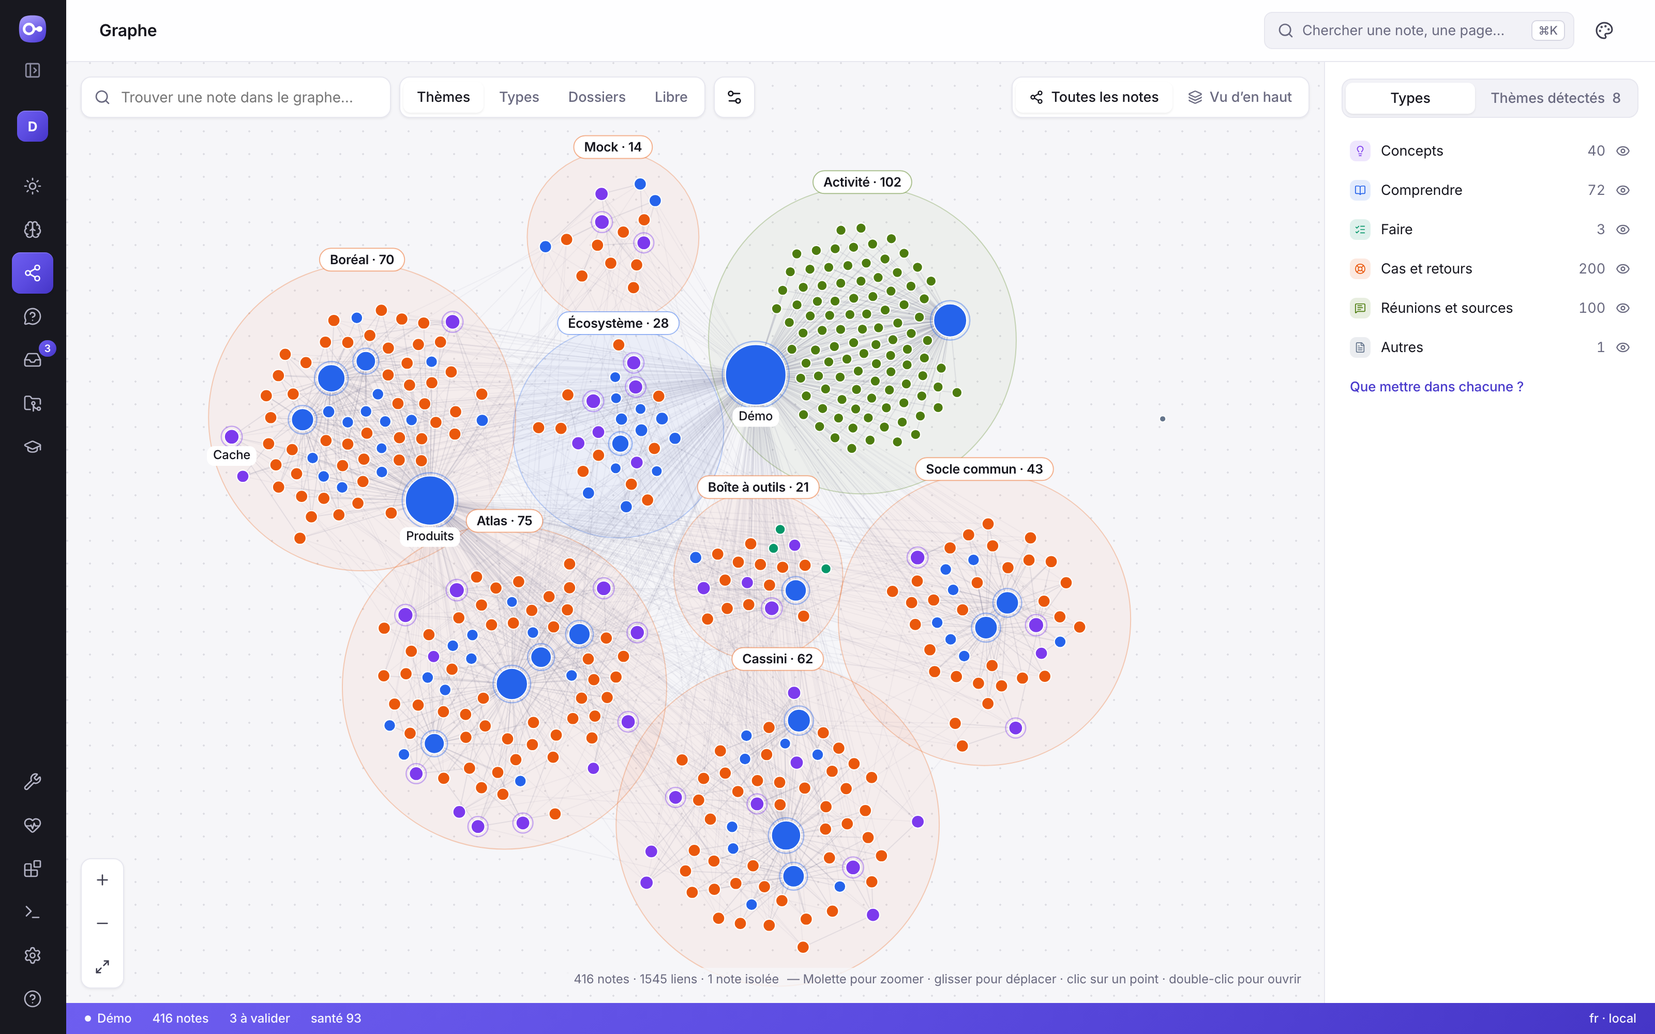
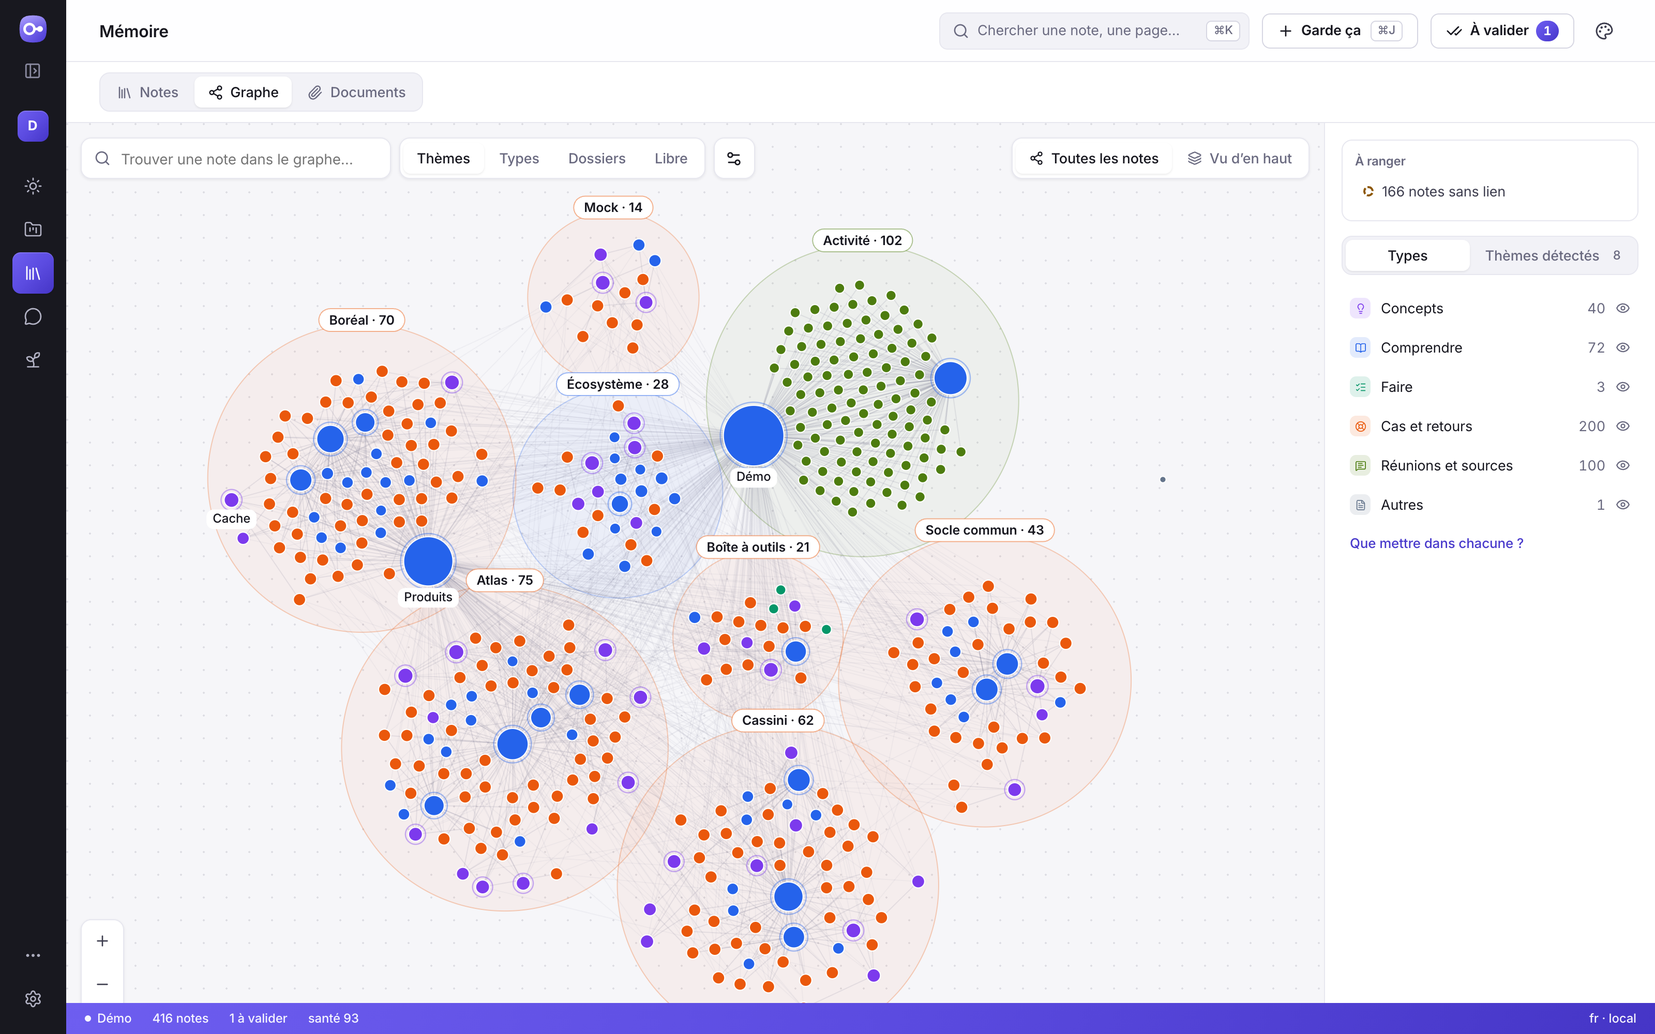
2.0.0: the version number, the guides' screenshots, and a slow Git no longer taken for « not a Git repository »
- Version 2.0.0 in the package, the two plugins and the README; the release notes open on what the 2.0 is, how to come from the 1.5, what is not in it, and its gate (a month of daily use, « mardi » in ten seconds, under three minutes of upkeep a day).
- The guides' screenshots are retaken on the 2.0 (scripts/screenshots.mjs, from a running app on a fictitious brain), with four new ones: a project, the documents, « À valider », the four indicators.
- Simple words: the settings labels no longer say « KB »; the words test now covers every label of the settings page.
- gitRoot waits a second time, longer, when Git is slow to answer, and says `gitSlow` instead of « not a Git repository » where that would mislead (it failed the suite twice under load).
- Quality is shown as a score out of 100, the other indicators as a share.

diff --git a/src/i18n/fr.ts b/src/i18n/fr.ts
@@ -402,7 +402,7 @@ export const FR: Record<keyof typeof EN, string> = {
   'settings.groupHint.advanced': 'pour experts',
   'settings.label.ui.language': 'Langue d’OKB (menus et messages)',
   'settings.label.writing.language': 'Langue de rédaction des notes',
-  'settings.label.profile.displayName': 'Nom de la KB',
+  'settings.label.profile.displayName': 'Nom de ce cerveau',
   'settings.label.writing.preset': 'Style d’écriture',
   'settings.label.reader.level': 'Ton niveau',
   'settings.label.kb.requireTemplate': 'Chaque note suit un modèle',
@@ -444,7 +444,7 @@ export const FR: Record<keyof typeof EN, string> = {
   'settings.hint.agents.model.haiku': 'le moins cher, pour les sources simples',
   'settings.hint.agents.model.opus': 'le plus fort',
   'settings.explain.agents.model': 'Les sous-agents qui lisent les longues sources et le code d’un repo, et rapportent des faits cités. La rédaction des notes et le relecteur des preuves gardent toujours le modèle de ta session. Réglage propre à cet ordinateur : au travail, laisse « Comme la session » si ton accès ne propose pas tous les modèles.',
-  'settings.explain.routing.otherKnowledgeTools': 'Les noms d’autres bases de connaissances ou d’agents (la KB d’un agent support, un wiki). OKB n’y touche jamais, et demande laquelle tu veux dire quand un message pourrait les concerner.',
+  'settings.explain.routing.otherKnowledgeTools': 'Les noms d’autres bases de connaissances ou d’agents (la base d’un agent support, un wiki). OKB n’y touche jamais, et demande laquelle tu veux dire quand un message pourrait les concerner.',
   'settings.explain.focus.sessionStart': 'Au début de chaque session Claude, ta note de focus et la dernière « prochaine fois » sont données à Claude.',
 
   // ---------- kb ----------
@@ -1341,8 +1341,8 @@ export const FR: Record<keyof typeof EN, string> = {
   "repo.next.integrate": "Dans Claude : /okb-dev:onboard intègre les réponses dans les notes",
   "repo.next.refresh": "Dans Claude : /okb-dev:onboard refresh (met à jour les notes dépassées)",
   "repo.next.ticket": "Dans Claude : /okb-dev:ticket (enrichit la KB du repo avec ce travail)",
-  "settings.label.kb.confidential": "KB confidentielle (reste sur cet ordinateur)",
-  "settings.explain.kb.confidential": "Pour le code d’entreprise et le travail client : pas de lecture web, pas de dépôt GitHub créé par OKB, et okb doctor prévient si le dossier est synchronisé par un cloud ou si la KB a un remote.",
+  "settings.label.kb.confidential": "Cerveau confidentiel (reste sur cet ordinateur)",
+  "settings.explain.kb.confidential": "Pour le code d’entreprise et le travail client : pas de lecture web, pas de dépôt GitHub créé par OKB, et okb doctor prévient si le dossier est synchronisé par un cloud ou si ses notes ont un dépôt distant.",
   "doctor.check.kb-private": "Confidentialité",
   "doctor.private.ok": "en local seulement : pas de dossier cloud, pas de remote Git",
   "doctor.private.synced": "le dossier est synchronisé par {where}",

diff --git a/tests/git-slow.test.ts b/tests/git-slow.test.ts
@@ -1,0 +1,48 @@
+import { execFileSync } from 'node:child_process';
+import { chmod, mkdir, mkdtemp, realpath, rm, writeFile } from 'node:fs/promises';
+import { tmpdir } from 'node:os';
+import { resolve } from 'node:path';
+import { afterEach, describe, expect, it } from 'vitest';
+import { TEST_ROOT } from './helpers/sandbox.js';
+
+const made: string[] = [];
+afterEach(async () => { for (const d of made.splice(0)) await rm(d, { recursive: true, force: true }); });
+
+/** Ask `gitRoot` from a process whose `git` answers after `sleep` seconds. */
+async function rootWithSlowGit(sleep: number, options: string): Promise<string> {
+  const dir = await realpath(await mkdtemp(resolve(tmpdir(), 'okb-slowgit-')));
+  made.push(dir);
+  const real = execFileSync('which', ['git'], { encoding: 'utf8' }).trim();
+  const repo = resolve(dir, 'repo');
+  await mkdir(repo, { recursive: true });
+  execFileSync(real, ['init', '-q', repo]);
+  await mkdir(resolve(dir, 'bin'));
+  await writeFile(resolve(dir, 'bin', 'git'), `#!/bin/sh\nsleep ${sleep}\nexec ${real} "$@"\n`);
+  await chmod(resolve(dir, 'bin', 'git'), 0o755);
+  const script = `
+    const { gitRoot } = await import(${JSON.stringify(resolve(TEST_ROOT, '..', 'dist', 'repo', 'git.js'))});
+    try { console.log(JSON.stringify({ root: await gitRoot(${JSON.stringify(repo)}, ${options}) })); }
+    catch (e) { console.log(JSON.stringify({ key: e.key ?? null, message: e.message })); }`;
+  const out = execFileSync(process.execPath, ['--input-type=module', '-e', script], { env: { ...process.env, PATH: `${resolve(dir, 'bin')}:${process.env.PATH}` }, encoding: 'utf8' });
+  return out.trim().replace(repo, '<repo>');
+}
+
+describe('a slow Git is not « not a Git repository »', () => {
+  it('waits a second time, longer, before concluding anything', async () => {
+    // Git takes 1.5 s; the first wait is 0.4 s, the second 10 s.
+    expect(await rootWithSlowGit(1.5, '{ timeout: 400, patience: 10000 }')).toBe('{"root":"<repo>"}');
+  });
+
+  it('when Git still does not answer, says so instead of saying the folder is not a repository', async () => {
+    expect(JSON.parse(await rootWithSlowGit(3, '{ timeout: 300, patience: 600, strict: true }'))).toMatchObject({ key: 'gitSlow' });
+    // Where the answer is only a hint (a tip on the home screen), no repository is assumed, without an error.
+    expect(await rootWithSlowGit(3, '{ timeout: 300, patience: 600 }')).toBe('{"root":null}');
+  });
+
+  it('a folder outside Git is still told at once', async () => {
+    const dir = await realpath(await mkdtemp(resolve(tmpdir(), 'okb-nogit-')));
+    made.push(dir);
+    const { gitRoot } = await import('../src/repo/git.js');
+    expect(await gitRoot(dir, { strict: true })).toBeNull();
+  });
+});

diff --git a/src/i18n/en.ts b/src/i18n/en.ts
@@ -401,7 +401,7 @@ export const EN = {
   'settings.groupHint.advanced': 'for experts',
   'settings.label.ui.language': 'OKB language (menus and messages)',
   'settings.label.writing.language': 'Language the notes are written in',
-  'settings.label.profile.displayName': 'KB name',
+  'settings.label.profile.displayName': 'Name of this brain',
   'settings.label.writing.preset': 'Writing style',
   'settings.label.reader.level': 'Your level',
   'settings.label.kb.requireTemplate': 'Every note follows a template',
@@ -443,7 +443,7 @@ export const EN = {
   'settings.hint.agents.model.haiku': 'the cheapest, for simple sources',
   'settings.hint.agents.model.opus': 'the strongest',
   'settings.explain.agents.model': 'The subagents that read long sources and a repository’s code, and report cited facts. Writing the notes and the evidence reviewer always keep your session’s model. Set per computer: at work, keep “Same as the session” if your access does not offer every model.',
-  'settings.explain.routing.otherKnowledgeTools': 'Names of other knowledge bases or agents (a support agent’s KB, a wiki). OKB never touches them, and asks which one you mean when a message could concern them.',
+  'settings.explain.routing.otherKnowledgeTools': 'Names of other knowledge bases or agents (a support agent’s base, a wiki). OKB never touches them, and asks which one you mean when a message could concern them.',
   'settings.explain.focus.sessionStart': 'At the start of each Claude session, your focus note and the last “next time” are given to Claude.',
 
   // ---------- kb ----------
@@ -1340,8 +1340,8 @@ export const EN = {
   "repo.next.integrate": "In Claude: /okb-dev:onboard integrates the answers into the notes",
   "repo.next.refresh": "In Claude: /okb-dev:onboard refresh (updates the outdated notes)",
   "repo.next.ticket": "In Claude: /okb-dev:ticket (enriches the repository's KB from this work)",
-  "settings.label.kb.confidential": "Confidential KB (stays on this computer)",
-  "settings.explain.kb.confidential": "For company code and client work: no web reading, no GitHub repository from OKB, and okb doctor warns if the folder is synchronised by a cloud or the KB has a remote.",
+  "settings.label.kb.confidential": "Confidential brain (stays on this computer)",
+  "settings.explain.kb.confidential": "For company code and client work: no web reading, no GitHub repository from OKB, and okb doctor warns if the folder is synchronised by a cloud or its notes have a remote.",
   "doctor.check.kb-private": "Confidentiality",
   "doctor.private.ok": "local only: no cloud folder, no Git remote",
   "doctor.private.synced": "the folder is synchronised by {where}",

diff --git a/src/repo/git.ts b/src/repo/git.ts
@@ -1,6 +1,7 @@
 import { execFile } from 'node:child_process';
 import { resolve } from 'node:path';
 import { promisify } from 'node:util';
+import { OkbError } from '../util/errors.js';
 
 /**
  * Read-only Git access for code repositories OKB documents. Nothing here
@@ -21,10 +22,25 @@ async function attempt(root: string, args: readonly string[], options: { maxBuff
   try { return await git(root, args, options); } catch { return null; }
 }
 
-/** The top of the working tree containing `dir`, or null outside Git. */
-export async function gitRoot(dir: string): Promise<string | null> {
-  const out = await attempt(dir, ['rev-parse', '--show-toplevel'], { timeout: 5000 });
-  return out ? resolve(out.trim()) : null;
+const timedOut = (error: unknown) => (error as { killed?: boolean }).killed === true || (error as { code?: string }).code === 'ETIMEDOUT';
+
+/**
+ * The top of the working tree containing `dir`, or null outside Git. A Git that
+ * is slow to answer (a busy machine, a cold disk) is not « outside Git »: OKB
+ * waits a second time, longer. If Git still does not answer, `strict` says so
+ * (`gitSlow`) where a wrong « not a repository » would mislead; elsewhere the
+ * answer is only a hint, and no repository is assumed.
+ */
+export async function gitRoot(dir: string, options: { strict?: boolean; timeout?: number; patience?: number } = {}): Promise<string | null> {
+  for (const timeout of [options.timeout ?? 5000, options.patience ?? 20_000]) {
+    try {
+      return resolve((await git(dir, ['rev-parse', '--show-toplevel'], { timeout })).trim());
+    } catch (error) {
+      if (!timedOut(error)) return null;
+    }
+  }
+  if (options.strict) throw new OkbError('E_IO', `Git did not answer in time for ${dir}`, { key: 'gitSlow', params: { path: dir } });
+  return null;
 }
 
 /** Remote URL without credentials, query or fragment: `https://user:token@host/x.git` → `https://host/x.git`. */

diff --git a/tests/web-app/words.test.ts b/tests/web-app/words.test.ts
@@ -26,7 +26,9 @@ describe('simple words on screen (F2.0-02)', () => {
   it('no message of the app says « KB », « bundle » or « proposition »: these words stay in the code', () => {
     const fr = { ...FR, ...FR_V1 } as Record<string, string>;
     const en = { ...EN, ...EN_V1 } as Record<string, string>;
-    const keys = appKeys().flatMap((k) => [k, `${k}.one`, `${k}.other`]);
+    // The settings page builds its labels from each setting's key: every one of them is on screen too.
+    const settings = Object.keys(fr).filter((k) => /^settings\.(label|explain|opt|hint)\./.test(k));
+    const keys = [...appKeys().flatMap((k) => [k, `${k}.one`, `${k}.other`]), ...settings];
     expect(keys.length).toBeGreaterThan(500);
     const internal = { fr: /\bKB\b|\b[Bb]undles?\b|\b[Pp]ropositions?\b/, en: /\bKB\b|\b[Bb]undles?\b|\b[Pp]roposals?\b/ };
     // A parameter ({kb}) and a command to type (okb kb convert) are not words of the interface.

diff --git a/src/cli/commands/init.ts b/src/cli/commands/init.ts
@@ -303,7 +303,7 @@ async function createForCode(ctx: Ctx, kind: 'repo' | 'workspace', input: { name
   void _kbName;
   if (kind === 'repo') {
     const { gitRoot } = await import('../../repo/git.js');
-    const root = await gitRoot(folder);
+    const root = await gitRoot(folder, { strict: true });
     if (!root) throw new OkbError('E_NOT_FOUND', `not a Git repository: ${folder}`, { key: 'repoNotGit', params: { path: folder } });
     const id = await createCodeKb(ctx, { name: input.name, dir: input.dir, kind: 'repo', repoRoot: root, inRepo: input.inRepo });
     const code = await cmdRepo({ ...ctx, args: { ...ctx.args, positionals: ['add', root], flags: { ...flags, kb: id } } });

diff --git a/src/i18n/v1.fr.ts b/src/i18n/v1.fr.ts
@@ -1613,4 +1613,7 @@ export const FR_V1: Record<keyof typeof EN_V1, string> = {
   'metrics.upkeep': 'Entretien',
   'metrics.tokens': 'Coût',
   'app.upkeep.healthTitle': 'Santé des notes',
+  'err.gitSlow.title': 'Git ne répond pas',
+  'err.gitSlow.why': 'Git n’a pas répondu à temps pour {path}. Ce n’est pas forcément que le dossier n’est pas un dépôt.',
+  'err.gitSlow.fix': 'Réessaie dans un instant, ou vérifie avec : git -C "{path}" status.',
 };

diff --git a/src/i18n/v1.en.ts b/src/i18n/v1.en.ts
@@ -1619,4 +1619,7 @@ export const EN_V1 = {
   'metrics.upkeep': 'Upkeep',
   'metrics.tokens': 'Cost',
   'app.upkeep.healthTitle': 'Health of the notes',
+  'err.gitSlow.title': 'Git does not answer',
+  'err.gitSlow.why': 'Git did not answer in time for {path}. It does not mean the folder is not a repository.',
+  'err.gitSlow.fix': 'Try again in a moment, or check with: git -C "{path}" status.',
 } as const;

diff --git a/docs/releases/RELEASE-2.0.0.md b/docs/releases/RELEASE-2.0.0.md
@@ -1,12 +1,56 @@
-# Version 2.0.0 — en préparation
+# Version 2.0.0
 
 > **« Je lui confie mon travail. »** La 2.0 pose le socle : un deuxième cerveau
-> fiable, simple, qui garde le fil du travail. Le détail est dans
-> `docs/dev/specs/2026-10-10-2.0-socle.md`.
+> fiable, simple, qui garde le fil du travail.
+> ✨ **Rien de ce qu'une IA rédige n'entre dans tes notes sans ton oui** — toujours.
 
-Ces notes grandissent à chaque itération.
+## En bref
 
-## Itération 1 — la confiance d'abord
+- **Cinq écrans** au lieu de treize destinations, et des mots simples.
+- **Garder le fil** : projets, actions, ce que tu attends, journal, « Où j'en
+  étais », « ce que j'ai fait mardi ».
+- **Capturer** : les documents gardés tels quels ; Claude ne t'interrompt plus.
+- **Deux espaces étanches** : Mon bagage et Travail.
+- **Un oui proportionné** : « oui à tout, sauf… » en une confirmation.
+- **Un seul moteur** pour l'application, le terminal et les assistants (MCP).
+- **Durer** : une sauvegarde qui ramène tout, une restauration réellement essayée.
+
+## Passer de la 1.5
+
+Tes notes ne sont jamais touchées. `okb migrate 2.0` montre ce qui va se
+passer, `--apply` le fait après une sauvegarde, `--rollback` revient en arrière.
+Il faut Node 22.13 ou plus récent.
+Voir [passer de la 1.5 à la 2.0](../guide/passer-a-la-2-0.md).
+
+Ce qui change sans que tu le demandes :
+
+- le réglage « Quand Claude propose de garder quelque chose » passe à « à la fin
+  de la session » (`okb settings set suggest.mode live` pour l'ancien réglage) ;
+- « À valider » s'ouvre sur tout ce qui attend ;
+- chaque cerveau est rangé dans l'espace Travail, sauf un cerveau « carrière »
+  qui va dans Mon bagage ;
+- l'ancienne interface (`/classic`) est retirée.
+
+## Ce qui n'est pas dans la 2.0
+
+- Le partage à plusieurs (2.1), les lectures « plus simple, plus technique »
+  (2.2), l'assistant dans l'application (2.3), le quotidien du développeur (2.4),
+  l'application installable (3.0).
+- Les tickets du module développeur restent dans leurs fichiers.
+
+## La porte de la 2.0
+
+La 2.0 est construite ; sa porte reste à passer, et elle ne se passe qu'à l'usage :
+
+- s'en servir chaque jour de travail pendant un mois, sans rien perdre ;
+- retrouver « ce que j'ai fait mardi » en dix secondes ;
+- moins de trois minutes d'entretien par jour.
+
+`okb metrics` mesure les deux derniers points sur ton propre cerveau.
+
+Le détail suit, thème par thème.
+
+## La confiance d'abord
 
 - **Une seule porte vers l'IA.** Traduire, « Demander » et l'examen d'un repo passent
   par le même contrôle :
@@ -33,7 +77,7 @@ Ces notes grandissent à chaque itération.
 
 Décision : D56. Vérification : `npm run release:check` (676 tests).
 
-## Itération 2 — la vitesse sur un gros cerveau
+## La vitesse sur un gros cerveau
 
 OKB ne relit plus toutes tes notes à chaque clic : il garde ce qu'il a lu et ne
 relit que les notes qui ont changé. Sur un cerveau fictif de 4 715 notes :
@@ -53,7 +97,7 @@ Pour mesurer toi-même : `npm run bench:speed` (sans IA, sans token).
 
 Décision : D57.
 
-## Itération 3 — un seul moteur
+## Un seul moteur
 
 - **Les mêmes réponses partout.** Une recherche donne les mêmes notes, dans le même
   ordre, que tu la fasses dans l'application ou le terminal. La recherche du
@@ -67,7 +111,7 @@ Décision : D57.
 - **Une demande mal formée** est refusée avec le nom du champ en cause.
 
 Décision : D58.
-## Itération 4 — le grand ménage
+## Le grand ménage
 
 L'application garde son apparence (le thème Atelier), mais elle est rangée autrement.
 
@@ -91,7 +135,7 @@ L'application garde son apparence (le thème Atelier), mais elle est rangée aut
 
 Décision : D59.
 
-## Itération 5 — garder le fil
+## Garder le fil
 
 - **Les projets.** Un projet, c'est ce sur quoi tu travailles. Il dit où il en est en
   une phrase et sa prochaine étape. Tu en crées un pour un sujet ; avec le module
@@ -115,7 +159,7 @@ Décision : D59.
 (`okb.db`), dans le dossier d'état de ton profil, pas dans tes notes.
 Voir [projets, actions et journal](../guide/projets.md).
 
-## Itération 6 — capturer et écrire
+## Capturer et écrire
 
 - **Les documents.** Un PDF, une présentation, un mail, une photo : OKB garde le
   fichier tel quel, sans jamais le modifier, et lit son texte pour que la
@@ -140,7 +184,7 @@ la fin de la session » par défaut. Pour retrouver la proposition immédiate :
 Voir [les documents](../guide/documents.md) et
 [rien n'est écrit sans ton oui](../guide/demander-avant-ecrire.md).
 
-## Itération 7 — les espaces et le oui
+## Les espaces et le oui
 
 - **Deux espaces qui ne se mélangent jamais.** **Mon bagage** : ce qui t'appartient
   et te suit toute ta vie. **Travail** : les notes d'un employeur ou d'un client.
@@ -160,7 +204,7 @@ Voir [les documents](../guide/documents.md) et
 qui va dans Mon bagage. Pour changer : Réglages › Espace de ce cerveau.
 Voir [deux espaces](../guide/espaces.md).
 
-## Itération 8 — durer
+## Durer
 
 - **Une sauvegarde qui ramène tout.** Chaque jour : tes notes, tes documents, tes
   projets, tes actions, ton journal, tes révisions et tes réglages. Aujourd'hui

diff --git a/README.md b/README.md
@@ -1,4 +1,4 @@
-# OKB — Open Knowledge Brain · 1.5.0
+# OKB — Open Knowledge Brain · 2.0.0
 
 **A local second brain for Claude Code and Obsidian, where nothing enters your
 notes without your approval.**
@@ -12,6 +12,39 @@ of plain Markdown files on your computer, that you open in Obsidian or in the we
 **En français :** [démarrer](DEMARRER.md) · [guide d’utilisation](docs/guide/README.md).
 
 ![The OKB web app: home](docs/images/web-home.png)
+
+## Version 2.0: a second brain you can trust with your work
+
+- **Five screens** instead of thirteen destinations — Today, Projects, Memory,
+  Assistant, Progress — with search (⌘K), “Keep this” (⌘J) and “To decide” at the
+  top of each, and simple words everywhere.
+- **Keeping the thread**: projects that say where they stand, actions and what
+  you wait for (spotted in a line you type, no AI), a journal by day and by
+  project, “where I was” when you leave a project, and “what I did on Tuesday”
+  one keystroke away.
+- **Documents kept as they are** (a PDF, a slide deck, a mail, a photo), found by
+  a word of their text; a padlock hides one from assistants.
+- **Two spaces that never mix**, “My baggage” (yours for life) and “Work”; “Keep
+  in my baggage” carries a lesson across with no detail of the workplace.
+- ✨ **A proportional yes**: what you write passes at once; what an assistant
+  prepared waits in one place where you say “yes to all, except…”, with one
+  confirmation. Claude no longer interrupts: what it spots is offered at the end
+  of the session, three things at most.
+- **One engine** for the app, the terminal and assistants (`okb mcp` for Claude
+  Code, Codex, Copilot or Cursor): the same rules, the same answers.
+- **Built to last**: operational state in SQLite, a daily snapshot of everything
+  and a restore that is really tried (`okb backup drill`), a dry-run migration
+  from 1.5 with a way back (`okb migrate 2.0`), four honest indicators kept
+  apart, journeys run in a real browser.
+- **Fast on a big brain**: a repeated search on 4,700 notes went from 4 s to 0.08 s.
+
+Coming from 1.5: your notes are never touched. See
+[passer de la 1.5 à la 2.0](docs/guide/passer-a-la-2-0.md).
+Details: [release notes 2.0.0](docs/releases/RELEASE-2.0.0.md) · guides (FR):
+[l’application](docs/guide/application-web.md),
+[projets, actions et journal](docs/guide/projets.md),
+[les documents](docs/guide/documents.md), [les espaces](docs/guide/espaces.md),
+[brancher un assistant (MCP)](docs/guide/assistants-mcp.md).
 
 ## Version 1.5: the web app becomes the product
 

diff --git a/docs/guide/stockage-et-confidentialite.md b/docs/guide/stockage-et-confidentialite.md
@@ -39,6 +39,15 @@ le dit en rouge si elle a échoué.
 
 OKB ne fait pas de Git dans tes KB : si tu veux Git, c'est toi qui le gères.
 
+## Où en sont tes notes
+
+![Santé : quatre indicateurs séparés, chacun avec ce dont il est fait et quoi faire](../images/web-health.png)
+
+**Plus › Santé** montre quatre indicateurs séparés : la couverture, la fraîcheur,
+la qualité et la compréhension. Chacun dit de quoi il est fait, et chaque manque
+mène à un geste. Quand il n'y a rien à mesurer, il n'y a pas de chiffre. Dans le
+terminal : `okb indicators`.
+
 ## Les notes confidentielles 🔒
 
 Une note marquée **secrète** (`okb secret set <note> secret`, par une proposition

diff --git a/docs/guide/documents.md b/docs/guide/documents.md
@@ -4,6 +4,8 @@ Un devis en PDF, une présentation, un mail, une photo de tableau : tu veux le
 retrouver, pas le recopier. OKB le garde **tel quel** et lit son texte pour que
 la recherche le retrouve.
 
+![Mémoire › Documents : les fichiers gardés tels quels, avec leur recherche](../images/web-documents.png)
+
 ## Garder un fichier
 
 | Où | Comment |
